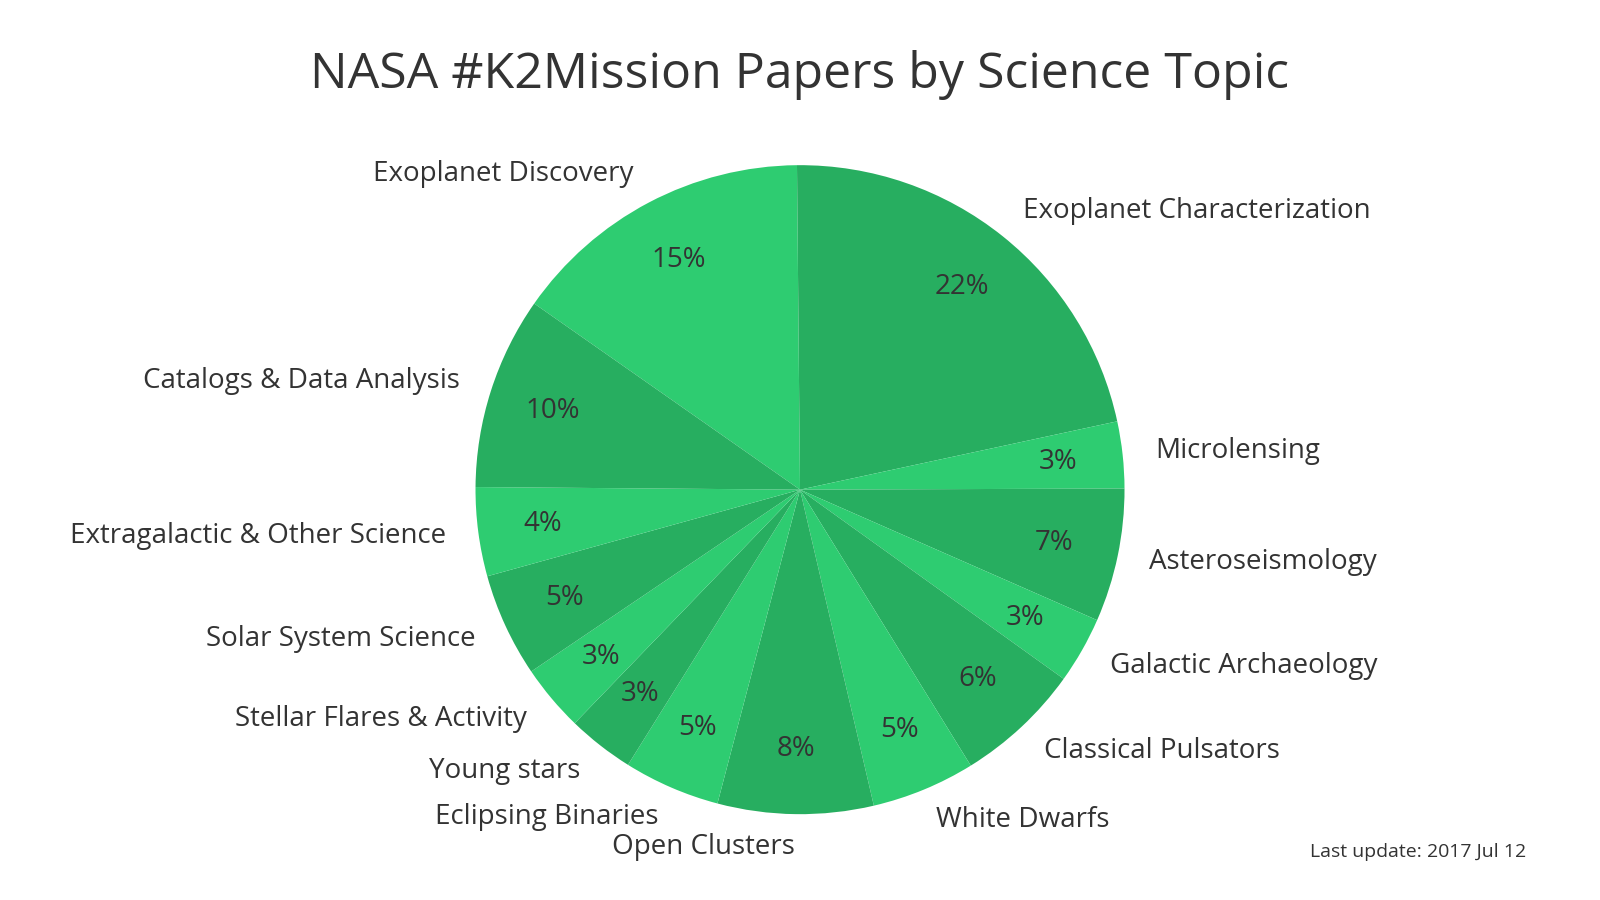
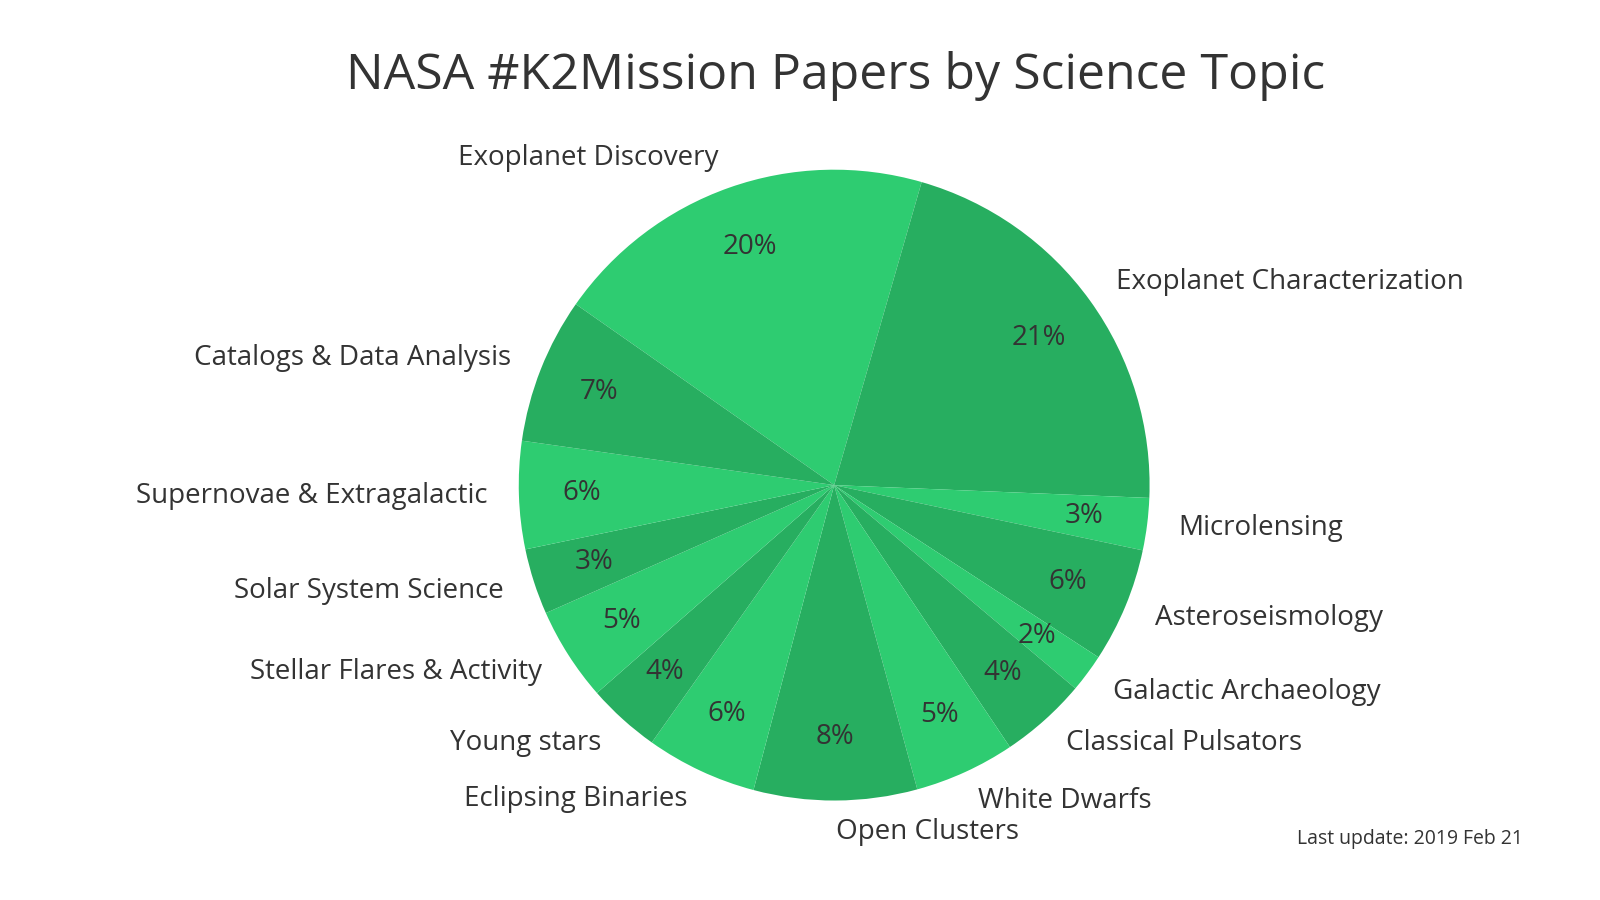
plot update

diff --git a/scripts/science-categories/plot-pie-chart.py b/scripts/science-categories/plot-pie-chart.py
@@ -20,7 +20,7 @@ df.loc[df.category == 'cv', 'category'] = 'ot'
 
 counts = df.category.value_counts()
 myorder = ['ed', 'ec', 'ml', 'as', 'ga', 'va', 'wd', 'cl', 'eb', 'yo', 'ac', 'ss', 'ot', 'da']
-assert(len(myorder) == len(counts.index))
+#assert(len(myorder) == len(counts.index))
 
 #labels = [CATEGORIES[lab] for lab in counts.index]
 #sizes = counts.values
@@ -35,7 +35,7 @@ ax.pie(sizes, labels=labels, autopct='%1.0f%%', startangle=145,
 ax.axis('equal')  # Equal aspect ratio ensures that pie is drawn as a circle.
 ttl = pl.title("NASA #K2Mission Papers by Science Topic", fontsize=36)
 ttl.set_position([.5, 1.05])
-ax.text(1, 0.005, 'Last update: 2017 Jul 12',
+ax.text(1, 0.005, 'Last update: 2019 Feb 21',
         horizontalalignment='right',
         verticalalignment='top',
         transform=ax.transAxes,
